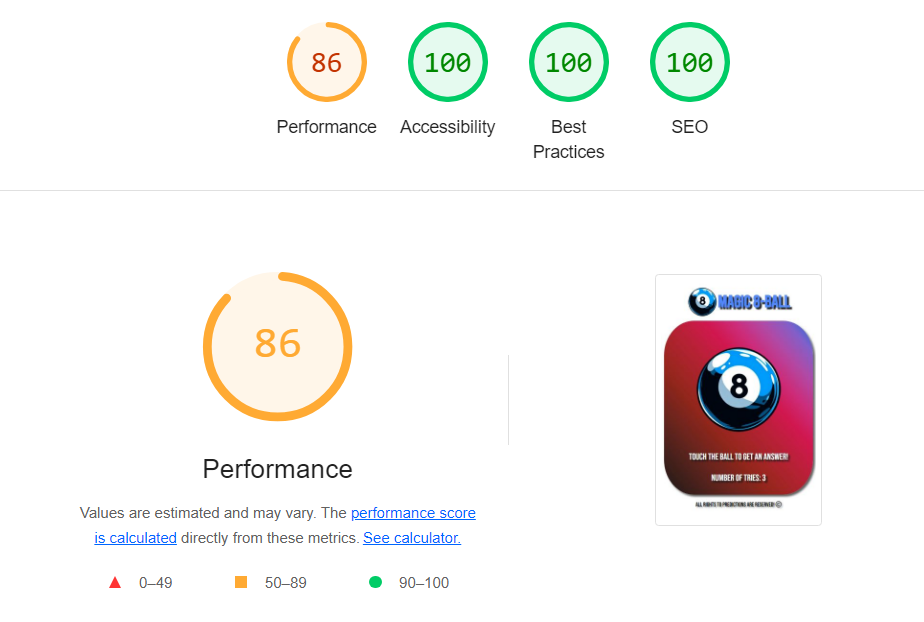
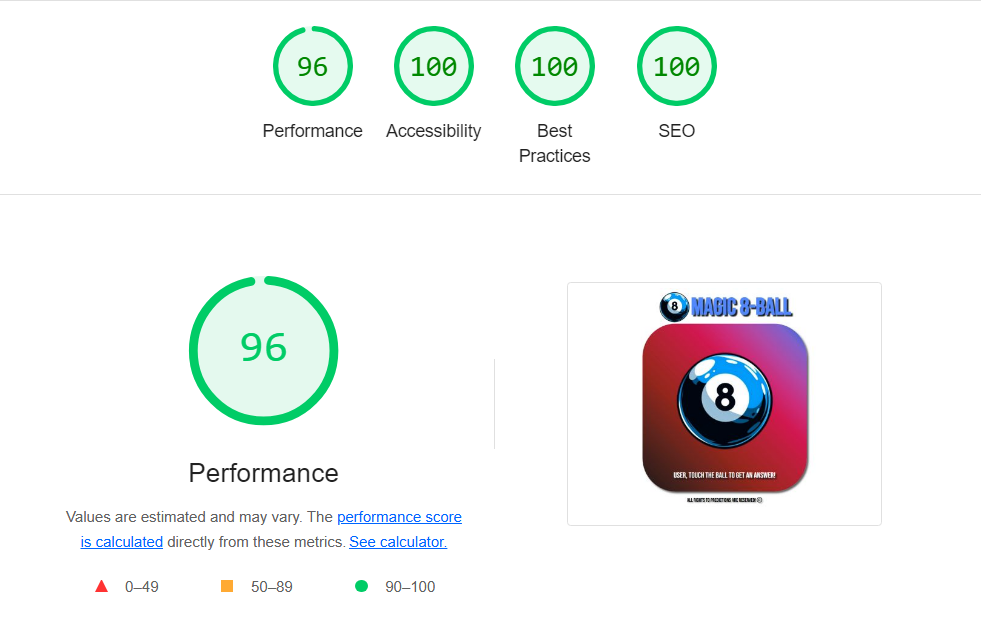
Change readme

diff --git a/README.md b/README.md
@@ -1,7 +1,7 @@
 # Magic 8-Ball
 
 ## Overview
-The Magic 8-Ball is a classic fortune-telling toy that provides answers to yes-or-no questions. This project is a digital version of the Magic 8-Ball, allowing users to click on a virtual 8-ball image to receive a randomized response. The project is built using HTML, CSS, and JavaScript, and it is deployed using GitHub Pages. The game includes a limited number of tries to interact with the 8-ball, after which the user is prompted to submit their email to continue receiving answers.
+The Magic 8-Ball is a classic fortune-telling toy that provides answers to yes-or-no questions. This project is a digital version of the Magic 8-Ball, allowing users to click on a virtual 8-ball image to receive a randomized response. The project is built using HTML, CSS, and JavaScript, and it is deployed using GitHub Pages. The game includes a limited number of tries to interact with the 8-ball, after which the user is prompted to submit their email and name to continue receiving answers.
 
 ## Responsive Mockup
 
@@ -11,27 +11,29 @@ The Magic 8-Ball is a classic fortune-telling toy that provides answers to yes-o
 
 ### Existing Features
 
-## 1. Interactive 8-Ball Image
+## 1. **Interactive 8-Ball Image**
 - Users can click on the Magic 8-Ball image to receive a randomized response.
 - The 8-ball image shakes upon clicking to simulate the physical 8-ball experience.
 - The image and its corresponding alt text change based on the randomly selected answer.
 
 ![Interactive 8-Ball Image](/assets/images/photos_for_readme/Magic-8-Ball.png)
 
-## 2. Limited Number of Tries
+## 2. **Limited Number of Tries**
 - Users are given a limited number of attempts (initially 3) to ask questions and receive answers.
 - The number of remaining tries is displayed on the screen and decreases with each click.
-- Once the tries are exhausted, the user is prompted to submit their email to continue.
+- Once the tries are exhausted, the user is prompted to submit their email and name to continue.
 
 ![Number of Tries](/assets/images/photos_for_readme/Numbers-of-tries.png)
 
-## 3. Email Submission Form
-- After the user uses all their tries, an email submission form is displayed.
-- Upon submitting the email, the user is granted additional tries, allowing them to continue using the Magic 8-Ball.
-- The form submission hides the email form and the tries counter area.
+## 3. **Email and Name Submission Form**
+- After the user uses all their tries, an email and name submission form is displayed.
 
 ![Email Form](/assets/images/photos_for_readme/Email-form.png)
 
+- Upon submitting the email and name, the user is granted additional tries, allowing them to continue using the Magic 8-Ball.
+The form submission hides the email form and the tries counter area, adding the user's name before "Touch the ball to get an answer!".
+
+![User name](/assets/images/photos_for_readme/User-name.png)
 
 ### Features Left to Implement
 - **Improved Email Validation and Integration**: Enhance the email form with additional validation checks. Integrate the form with a backend service to store submitted emails for future engagement.
@@ -39,14 +41,56 @@ The Magic 8-Ball is a classic fortune-telling toy that provides answers to yes-o
 - **Themes and Customization**: Allow users to choose from different themes for the Magic 8-Ball, such as different color schemes or styles..
 - **Additional Language Support**: Add a language selection option in the user interface.
 
+## Design  
+
+The design choices for this project were made with usability and visual appeal in mind:  
+
+- **Color Scheme:**  
+  The background of the game area features a gradient transitioning from deep reds and purples to blues, creating a visually engaging and dynamic effect. The contrast between the dark background and the white text ensures readability. The logo text color (#5885ff) was chosen to stand out while maintaining harmony with the overall color scheme.  
+
+- **Fonts:**  
+  The selected fonts, *Bebas Neue* and *New Amsterdam*, were chosen for their readability and aesthetic appeal. *Bebas Neue* provides a modern, bold look suitable for headings, while *New Amsterdam* complements it with a more refined style for body text.  
+
+- **Layout:**  
+  - The **header** is centered and uses `transform: translateX(-50%)` to maintain alignment on different screen sizes.  
+  - The **main game area** is designed with a responsive width and rounded borders, creating a smooth, friendly interface.  
+  - The **footer** uses text shadows to maintain visibility while blending subtly with the overall design.  
+
+- **Hover & Animation Effects:**  
+  - The **logo and 8-ball images** include hover effects (`transform: scale(1.15)`) to enhance interactivity.  
+  - A **shake animation** was implemented for the 8-ball using CSS keyframes, adding a playful effect to the game experience.  
+
+- **Responsiveness:**  
+  - Media queries adjust font sizes and layout elements for different screen sizes.  
+  - On smaller screens, the game area expands to full width for better usability.  
+
+These design choices collectively enhance the user experience by ensuring clarity, engagement, and ease of use.
+
 ## Testing
 - I tested that this website works in different browsers: Firefox, Avast Browser, Chrome, and Chrome for mobile.
 - I confirmed that this website is responsive, meets accessibility standards, and looks good on different screen sizes using the devtools toolbar.
 - I confirmed that everything is readable and easy to understand.
 - I confirmed that the sign-up form works well: it will not submit until the required field are filled, the email field accepts only email addresses, and the submit button works.
 
+### Manual Testing
+
+| Feature                   | Test Action                                       | Expected Outcome                                        | Result (✔/❌) | Fix (if needed)                          |
+|---------------------------|---------------------------------------------------|---------------------------------------------------------|--------------|------------------------------------------|
+| Image Click              | Click on the image                                | Image changes, counter decreases                        | ✔            | —                                        |
+| Counter Functionality    | Click the image three times                       | Counter reaches 0                                       | ✔            | —                                        |
+| Pop-up Form Trigger      | Click the image a fourth time                     | Pop-up form appears                                    | ✔            | —                                        |
+| Email Input Validation   | Enter invalid email format                        | Error message appears                                  | ✔            | —                                        |
+| Form Submission         | Enter valid name and email, then submit           | Form and counter disappear, username appears           | ✔            | —                                        |
+| Name Persistence        | Refresh the page after form submission            | Name remains displayed on the page                     | ✔            | —                                        |
+| Hover Effect (Image)    | Hover over the image                              | Image responds to mouse movement                       | ✔            | —                                        |
+| Hover Effect (Logo)     | Hover over the logo                               | Logo responds to mouse movement                        | ✔            | —                                        |
+
+
 ### Bugs
-- Bugs are not found.
+- Broken Images on the Site:
+The images on the site were not displaying due to incorrect image source paths. This issue was resolved by updating the image paths to their correct locations.
+- User Name Not Displaying After Page Reload:
+After reloading the page, the user's name was not appearing before "Touch the ball to get an answer!". The issue was that the script attempted to extract the content of the #name element after the page loaded and pass its value to #user-name, but at that time #name was empty. The solution was to store the content of #name in localStorage and then retrieve it to display in #user-name after the page reload.
 
 ### Validator Testing
 - **HTML**: No errors were returned when passing through the official W3C validator.
@@ -66,6 +110,17 @@ The site was deployed to GitHub Pages. The steps to deploy are as follows:
 4. Once the `main` branch has been selected, the page will automatically refresh with a detailed ribbon display to indicate the successful deployment.
 
 The live link can be found here: [Magi 8-Ball](https://mykhailovasylkov.github.io/Magic-8/)
+
+### Clone this repository
+ To clone this repository, use the following command:
+ - git clone https://github.com/MykhailoVasylkov/Magic-8.git
+
+### Forking the Project
+ To fork the repository and work on your own version:
+ - Go to the [repository](https://github.com/MykhailoVasylkov/Magic-8/tree/caf864d3ec20f3600e28ac52a33d1ae1cd5493a7) on GitHub.
+ - Click the Fork button in the upper right corner.
+ - Choose "Create a new fork"
+
 
 ## Credits
 
